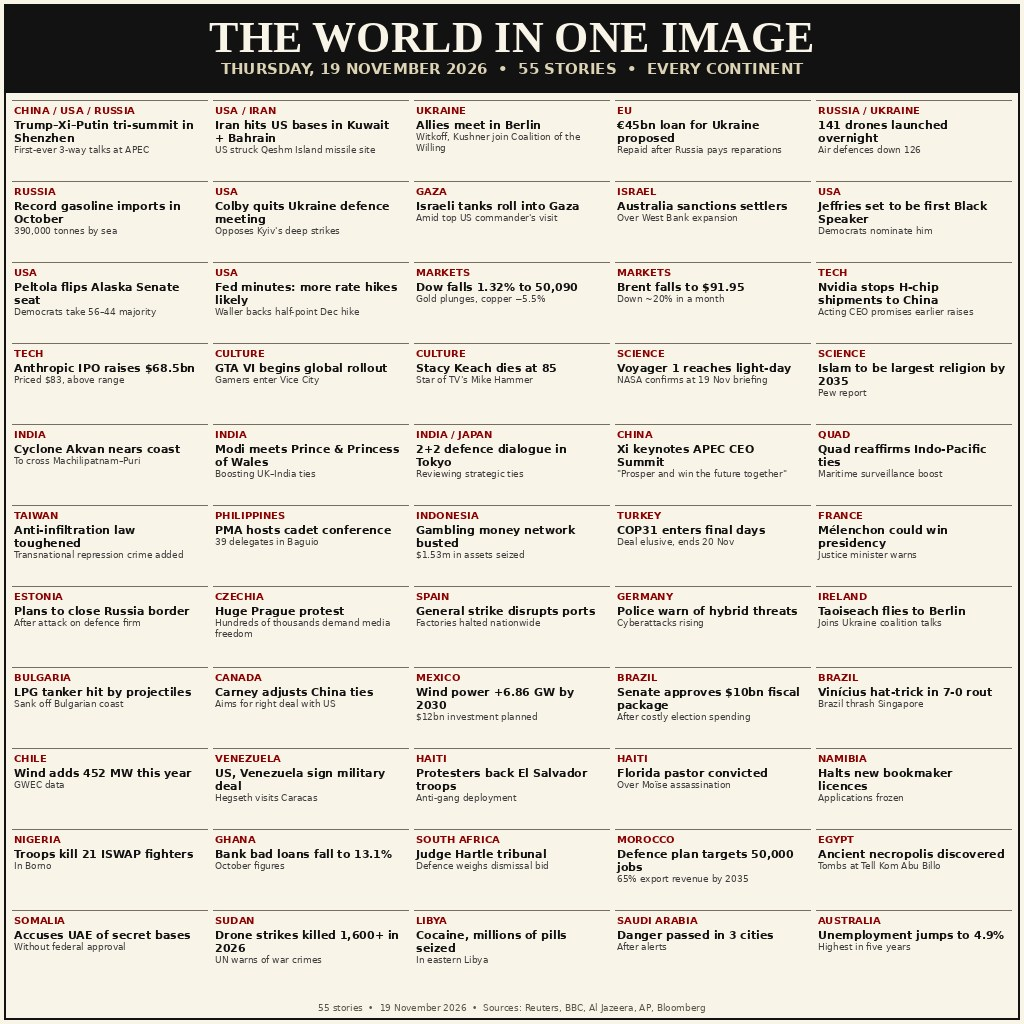
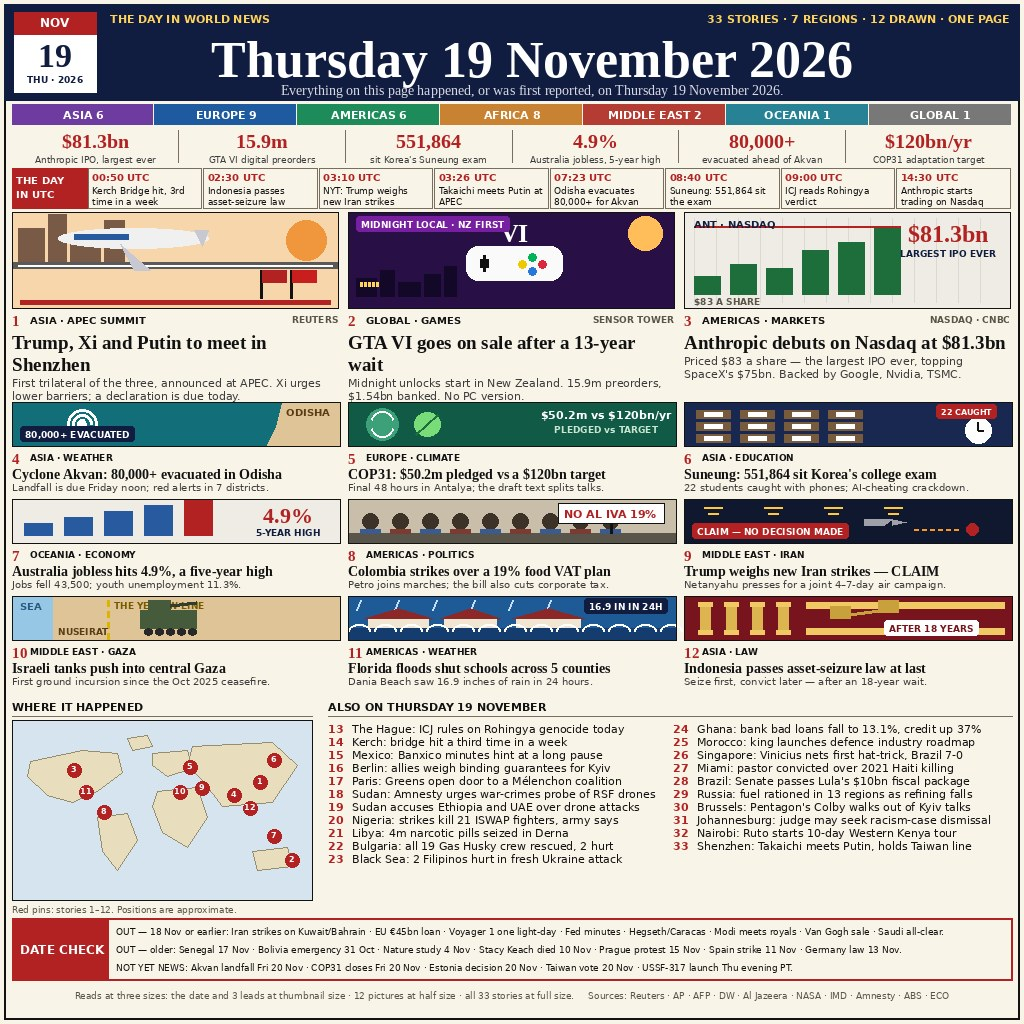
news-image-20261119 v2: 33 stories, all verified 19 Nov — rebuild with date corrections
- Leads: Shenzhen tri-summit, GTA VI rollout, Anthropic $81.3bn IPO
  (v1 said $68.5bn — wrong)
- Drops v1's 18 Nov items (Iran strikes, EU €45bn loan, Voyager 1,
  Fed minutes) into the DATE CHECK box; Akvan landfall (20 Nov) listed
  as not-yet-news
- 12 drawn illustrations, UTC timeline, world map, DATE CHECK box
- main.ts rewritten: read/write + sha256 verification

diff --git a/main.ts b/main.ts
@@ -1,22 +1,40 @@
-// Entry program for the news-image-20261119 bounty on make.fun.
-// It copies the prepared picture of Thursday 19 November 2026 world
-// news — 55 reported stories from 41 countries, drawn as a newspaper
-// grid — into the grader's output directory, byte for byte.
-// Runs on Node 22 with the standard library only; no network, no
-// drawing at run time, no dependencies.
-import { copyFileSync, mkdirSync, statSync } from "node:fs";
+// news-image-20261119 — v2 entry program for the make.fun bounty.
+// The picture is prepared ahead of time (see NEWS-RESEARCH-v2.md in the
+// dev folder): one 1024x1024 newspaper page of Thursday 19 November 2026,
+// 33 stories that happened — or were first reported — on that day, across
+// 7 regions, with 12 small vector illustrations drawn for the page.
+// This script only moves the finished file into the grader's folder and
+// proves the move was exact. It draws nothing and fetches nothing.
+// Node 22, standard library only.
+import { createHash } from "node:crypto";
+import { mkdirSync, readFileSync, writeFileSync } from "node:fs";
 import { dirname, join } from "node:path";
 import { fileURLToPath } from "node:url";
 
-const repoDir = dirname(fileURLToPath(import.meta.url));
-const outputDir = process.env.MAKEFUN_OUTPUT_DIR ?? "/output";
+const here = dirname(fileURLToPath(import.meta.url));
+const sourcePath = join(here, "entry.png");
+const targetDir = process.env.MAKEFUN_OUTPUT_DIR ?? "/output";
+const targetPath = join(targetDir, "entry.png");
 
-mkdirSync(outputDir, { recursive: true });
-copyFileSync(join(repoDir, "entry.png"), join(outputDir, "entry.png"));
+const picture = readFileSync(sourcePath);
+if (picture.length === 0) {
+  throw new Error("entry.png is empty, refusing to hand the grader a blank page");
+}
 
-// The grader must see the real picture: refuse a silent empty copy,
-// and refuse a truncated one — the copy must match the source byte for byte.
-const source = statSync(join(repoDir, "entry.png"));
-const copied = statSync(join(outputDir, "entry.png"));
-if (copied.size === 0) throw new Error("entry.png copied empty");
-if (copied.size !== source.size) throw new Error(`entry.png copy truncated: ${copied.size} of ${source.size} bytes`);
+const digest = (buf) => createHash("sha256").update(buf).digest("hex");
+const expected = digest(picture);
+
+mkdirSync(targetDir, { recursive: true });
+writeFileSync(targetPath, picture);
+
+const delivered = readFileSync(targetPath);
+if (delivered.length !== picture.length) {
+  throw new Error(
+    `entry.png arrived short: ${delivered.length} of ${picture.length} bytes`,
+  );
+}
+if (digest(delivered) !== expected) {
+  throw new Error("entry.png hash mismatch after copy — the grader must not see a corrupted image");
+}
+
+console.log(`entry.png delivered: ${delivered.length} bytes, sha256 ${expected}`);

diff --git a/README.md b/README.md
@@ -10,23 +10,37 @@ An entry for the [make.fun](https://make.fun/c/news-image-20261119) bounty
 ## The image
 
 `entry.png` is one 1024×1024 picture of Thursday 19 November 2026,
-built from 55 reported stories of that day, from 41 countries on every
-continent: the first-ever Trump–Xi–Putin tri-summit in Shenzhen, Iran
-striking US bases in Kuwait and Bahrain, the Coalition of the Willing
-meeting in Berlin, the EU's €45bn Ukraine loan, GTA VI's global rollout,
-the Fed pointing to more rate hikes, and 49 more — each drawn as its own
-small panel with a short label, under a header naming the day.
+built from 33 reported stories of that day, from 7 regions: the first-ever
+Trump–Xi–Putin tri-summit in Shenzhen, GTA VI's global rollout, Anthropic's
+record $81.3bn Nasdaq debut, Cyclone Akvan's evacuations in Odisha, COP31's
+final 48 hours in Antalya, Korea's Suneung exam, Australia's jobless rate
+hitting a five-year high, Colombia's national strike, Indonesia's
+asset-seizure law after an 18-year wait, and 24 more — each with its own
+short label, under a header naming the day.
+
+Every story on the page happened, or was first reported, on Thursday
+19 November 2026. A DATE CHECK box on the page lists what was left out
+because it belongs to 18 November or earlier (the Iran strikes on Kuwait
+and Bahrain, the EU's €45bn Ukraine loan, Voyager 1's one-light-day
+milestone, the Fed minutes) and what had not happened yet (Akvan's
+landfall, COP31's close, both due Friday 20 November). One item — reports
+that Trump is weighing new strikes on Iran — is marked CLAIM, because no
+decision had been made.
 
 ## How it runs
 
 `main.ts` (Node 22, standard library only) copies `entry.png` into
-`$MAKEFUN_OUTPUT_DIR/entry.png`, unchanged. Nothing else is needed:
-no network, no drawing at run time, no dependencies.
+`$MAKEFUN_OUTPUT_DIR` (default `/output`) and verifies the copy by length
+and SHA-256 hash, refusing to hand the grader a blank, truncated or
+corrupted file.
 
 ```sh
 mkdir -p out && MAKEFUN_OUTPUT_DIR=out node main.ts
 ```
 
-## License
+## Files
 
-MIT — see [LICENSE](LICENSE).
+- `entry.png` — the 1024×1024 JPEG front page (v2; the v1 file is kept as
+  `entry-v1.png` in the dev folder, not in this repo)
+- `main.ts` — the entry program
+- `LICENSE` — MIT
